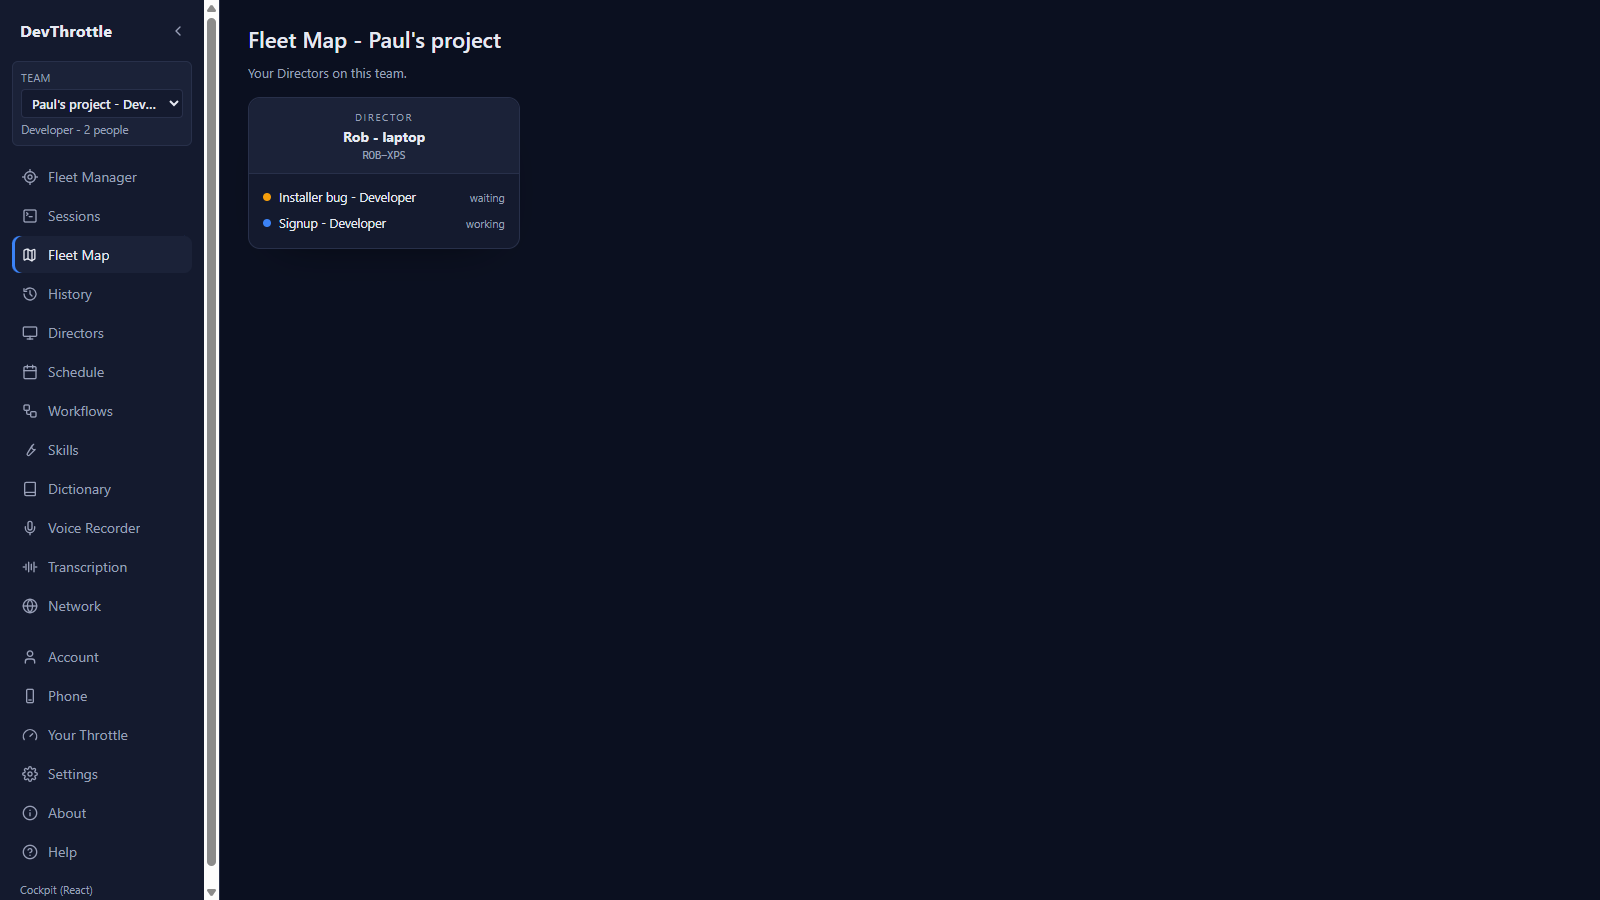
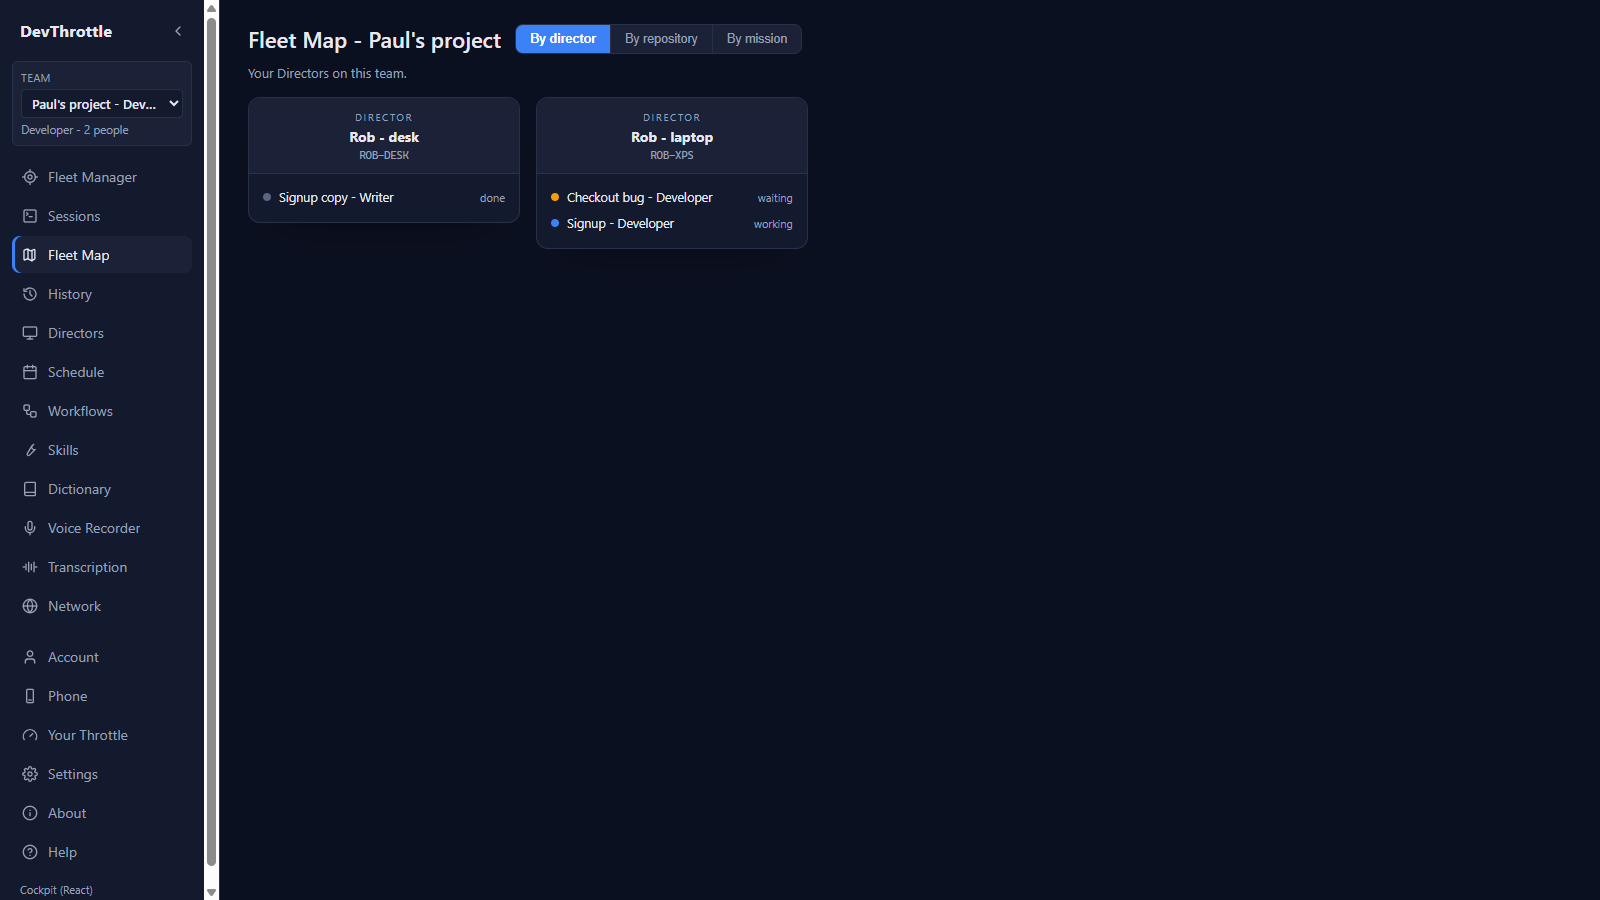
Teams: proof for the Fleet Map by role on main - test runs, red proofs and screenshots of D4 in all three layouts (devthrottle_internal#2312)

diff --git a/docs/proof/teams-2312/README.md b/docs/proof/teams-2312/README.md
@@ -1,7 +1,7 @@
 # Proof - the Fleet Map by role (devthrottle_internal#2312)
 
 Worktree `D:\ReposFred\devthrottle-teams-2312`, 4 October 2026, cut from origin/main at cdaab4f2b (after #2300 and
-#2302 merged). Everything below ran locally on SOREN_NORTH. No production database and no deploy was touched. No
+#2302 merged). Pull request 1 merged as 24cf04bfa; pull request 2 is rebased onto it. Everything below ran locally on SOREN_NORTH. No production database and no deploy was touched. No
 schema changed.
 
 Two pull requests:
@@ -21,14 +21,22 @@ Two pull requests:
 | The roster by role | `src/CcDirector.Gateway/Teams/TeamFleetMap.cs` | `GET /teams/{teamId}/fleet-map`, decided by `TeamAccess.Decide(..., SeeFleetMap)`. Owner and Manager: every Director on the team by person. Developer: only their own, cut on the server. Collaborator: refused (403). Not a member: no such team (404). |
 | The rule | `src/CcDirector.Gateway/Teams/TeamEndpointRules.cs` | The route is declared, read only, exact. A new target, `TeamNarrowedToCaller`, lets a Developer's "only their own" cell through to an endpoint that cuts its own answer; the gate code is unchanged. |
 | Whose a Director is | `src/CcDirector.Gateway/Discovery/DirectorRegistry.cs` | `RegisteringCredentialOf(tenant, director)`: the device key a Director said Hello on. Its `device_credentials` row (tenant = the team) names the person. |
-| The team map | `apps/cockpit/src/fleet/TeamFleetMapView.tsx` | Shown by `FleetMapView` when a team is on screen. By person (D5) and By director, in the layouts the Gateway offers. Plain text: no link, no button. |
+| The team map | `apps/cockpit/src/fleet/TeamFleetMapView.tsx` | Shown by `FleetMapView` when a team is on screen. In the layouts the Gateway offers: By person and By director for the Owner and a Manager (D5); By director, By repository and By mission for a Developer (D4). Plain text: no link, no button. |
 
 **The answer is an allow-list.** `TeamFleetMapDto`: team id and name, the caller's role, the scope, two sentences
 (the summary and the empty-map text), the layouts, and people. A person: their email, whether it is the caller, their
 Directors. A Director: name and machine. A session: name and status (working, waiting, done). No session id, no
 Director id, no transcript, screen, input, prompt or path. `TeamFleetMapDtoTests` pins the field set by reflection
-and on the wire, so a field added later fails a test. The Cockpit's reader also keeps only `name` and `status` of a
+and on the wire, so a field added later fails a test. The Cockpit's reader also keeps only the allowed fields of a
 session, whatever arrives.
+
+**Repository and mission, per entry (Tech Lead ruling, 4 October).** "Names and status only" governs seeing OTHER
+people's Directors. A session on one of the caller's OWN Directors also carries its repository (the "owner/repo" name,
+else the folder's name - never the path; the same rule as the own Fleet Map and the Repos page) and its mission (the
+attached mission, or "Standalone"). Everyone else's carries name and status only, and the two fields are absent from
+the wire, not null. The Gateway decides this per entry (`TeamFleetMap.SessionEntry`). Both shapes are pinned: by
+reflection and serialisation in `TeamFleetMapDtoTests`, on a real map in `TeamFleetMapTests` (a Manager's own entries
+carry them, the Owner's and Developers' do not), and over the wire in `TeamEndpointWalkTests`.
 
 **Whose a Director is.** The registry records the credential each Director said Hello on (`device:<id>`). The team map
 reads that device's `device_credentials` row and takes its `account_subject` - but only when the row is active (not
@@ -52,17 +60,14 @@ route answers 404 from the stub. Captured with browser-harness at 1600x900.
 | `00-switcher-own-account.png` | The switcher on "Your own account": the person's own Fleet Map, unchanged. Its two red lines are the STUB answering 404 to the roster and the colour legend, which it does not serve - not a product fault. |
 | `01-D5-manager-by-person.png` | **D5**: Priya, a Manager on DevThrottle. By person: every person on the team, their Directors, each session's name and status. "(you)" on her own lane. |
 | `02-D5-manager-by-director.png` | D5, switched to By director: one lane per Director, with whose it is. |
-| `03-D4-developer-own-directors.png` | **D4**: Rob, a Developer on Paul's project. Only his own Director; one layout, so no layout switch. |
+| `03-D4-developer-own-directors.png` | **D4**: Rob, a Developer on Paul's project. Only his own two Directors, By director, with By repository and By mission offered. |
+| `05-D4-developer-by-repository.png` | D4, By repository: one lane per repository, each session with the Director it runs on. |
+| `06-D4-developer-by-mission.png` | D4, By mission: one lane per mission; a session on no mission is under "Standalone". |
 | `04-collaborator-no-fleet-map.png` | A Collaborator on Marketing: the Gateway's refusal, no map. |
 
-The same run read the page through the browser: no link, button or `href` inside any lane (`0`).
+The same run read the page through the browser: no link, button or `href` inside any lane (`0`), in D5 and in D4.
 
-Two defects were found by reading these shots and fixed before the final run: the closed switcher cut the role off
-("DevThrottle - Mai"), and in By director the owner's email was in the accent colour, which reads as a link on a page
-where nothing opens. The switcher fix is on pull request 1's branch too.
-
-## Not on the team map, on purpose
-
-The Developer's D4 mockup shows "By repository" and "By mission". The allow-list the brief sets has no repository or
-mission, so the team map offers By person and By director only. Adding them means widening the allow-list - an owner
-decision, not this pull request's.
+Defects found by reading these shots and fixed before the final run: the closed switcher cut the role off
+("DevThrottle - Mai"); in By director the owner's email was in the accent colour, which reads as a link on a page where
+nothing opens; and in By repository and By mission the session name was cut short beside its Director's name (the
+Director now sits on its own line under it). The switcher fix went in with pull request 1.
